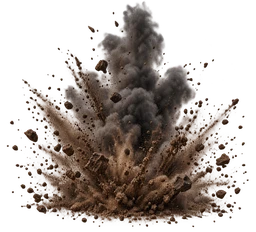
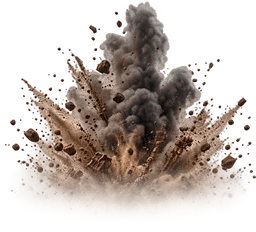
Release v1.11.67: ground and depth-sort impacts, unify city hits, show splash victims, fix motorized/naval/AT effects and commando muzzles

diff --git a/game/assets/orders.js b/game/assets/orders.js
@@ -63,7 +63,7 @@ function targetExplosions(u,p,d,now=performance.now()){const rocket=u.type===3,a
 async function attackCity(u,q,ai=false){if(!canAttackCity(u,q))return false;await finishMovingBeforeFire(u,ai);spendShot(u);const b=pxy(q.tile);let d=siegeDamage(u,q);beginAim(u,b,ai?25:180);await delay(ai?25:180);launchShot(u,b,performance.now(),ai?140:520);audioShot(u.type,u.f);await delay(u.f===0&&u.type===21?1000:TYPES[u.type].attackWindup??(u.type===25?1344:isFlashInfantry(u)?600:isCannonTank(u)?1000:(isBaekArtillery(u)||isTowedArtillery(u))?1200:ai?20:300));d=damageCity(q,d,cityDamageFloor(u));u.chargeUsed=true;targetExplosions(u,b,d,performance.now(),true);if(!q.hp)log(q.name+' 요새 무력화');if(!ai){selectUnit(u);updateHUD();save()}return true}
 function canCounterattack(defender,attacker){return defender.hp>0&&attacker.hp>0&&!defender.carriedBy&&atWar(defender.f,attacker.f)&&distance(defender.tile,attacker.tile)<=(TYPES[defender.type].branch==='artillery'?TYPES[defender.type].range:1)}
 function rollCounterattack(defender,attacker){return defender.type!==3&&attacker.type!==3||Math.random()<.4}
-async function attack(u,v,ai=false){if(!units.includes(u)||!units.includes(v)||!canAttack(u,v))return false;await finishMovingBeforeFire(u,ai);spendShot(u);const A=pxy(u.tile),B=pxy(v.tile),d=damage(u,v),splashShield=specialIncomingFactor(v);beginAim(u,B,ai?25:180);await delay(ai?25:180);launchShot(u,B,performance.now(),ai?140:520);audioShot(u.type,u.f);await delay(u.f===0&&u.type===21?1000:TYPES[u.type].attackWindup??(u.type===25?1344:isFlashInfantry(u)?600:isCannonTank(u)?1000:(isBaekArtillery(u)||isTowedArtillery(u))?1200:ai?20:300));const counterHp=v.hp;v.hp-=d;u.chargeUsed=true;targetExplosions(u,B,d,performance.now(),false,v);const garrison=cityAt(v.tile);if(garrison&&garrison.hp>0&&atWar(u.f,garrison.f)){const cityD=damageCity(garrison,siegeDamage(u,garrison),cityDamageFloor(u));fx.push({kind:'blast',x:B.x+44,y:B.y+32,start:performance.now(),duration:750,damage:cityD,layers:typeof impactLayers==='function'?impactLayers(u,null,true):undefined});if(!garrison.hp)log(garrison.name+' 요새 무력화')}u.xp+=d;const splash=u.type===3?.25:u.type===18?.2:TYPES[u.type].splash||0;let killed=v.hp<=0;if(typeof isWhiteNight==='function'&&isWhiteNight(u)){for(const a of whiteNightTargets(u,v).filter(a=>a.id!==v.id)){const hit=Math.round(d*.6);a.hp-=hit;u.xp+=hit;targetExplosions(u,pxy(a.tile),hit,performance.now(),false,a);if(a.hp<=0){killed=true;kill(a)}}}else if(splash)units.filter(a=>!a.carriedBy&&atWar(u.f,a.f)&&a.id!==v.id&&distance(v.tile,a.tile)<=1).slice().forEach(a=>{a.hp-=Math.round(d*splash/rannaTerrainProtection(v)/splashShield*rannaTerrainProtection(a)*specialIncomingFactor(a)*(cityAt(a.tile)?.f===a.f?.7:1));if(a.hp<=0){killed=true;kill(a)}});if(v.hp<=0){kill(v);log(factions[u.f].name+' · '+TYPES[v.type].name+' 격파')}else if(canCounterattack(v,u)&&rollCounterattack(v,u)){const retaliation=counterattackDamage(v,u,counterHp);food[v.f]-=attackFood(v);beginAim(v,A,110);launchShot(v,A,performance.now()+110,85);if(v.f===0&&v.type===21)await delay(1110);else if(TYPES[v.type].attackWindup)await delay(110+TYPES[v.type].attackWindup);else if(isFlashInfantry(v))await delay(710);else if(isCannonTank(v))await delay(1110);else if(TYPES[v.type].branch==='artillery')await delay(isTowedArtillery(v)||isBaekArtillery(v)?1310:650);u.hp-=retaliation;targetExplosions(v,A,retaliation,performance.now()+(TYPES[v.type].attackWindup?0:160),false,u);if(u.hp<=0)kill(u)}if(killed){killReward(u);if(!ai&&TYPES[u.type].branch==='armor')toast(u.moved?'격파 · 추가 공격 가능, 이동 완료':'격파 · 이동과 추가 공격 가능')}if(!ai){if(units.includes(u))selectUnit(u);updateHUD();save()}return true}
+async function attack(u,v,ai=false){if(!units.includes(u)||!units.includes(v)||!canAttack(u,v))return false;await finishMovingBeforeFire(u,ai);spendShot(u);const A=pxy(u.tile),B=pxy(v.tile),d=damage(u,v),splashShield=specialIncomingFactor(v);beginAim(u,B,ai?25:180);await delay(ai?25:180);launchShot(u,B,performance.now(),ai?140:520);audioShot(u.type,u.f);await delay(u.f===0&&u.type===21?1000:TYPES[u.type].attackWindup??(u.type===25?1344:isFlashInfantry(u)?600:isCannonTank(u)?1000:(isBaekArtillery(u)||isTowedArtillery(u))?1200:ai?20:300));const counterHp=v.hp;v.hp-=d;u.chargeUsed=true;const garrison=cityAt(v.tile);if(garrison){let shown=d;if(garrison.hp>0&&atWar(u.f,garrison.f)){shown=damageCity(garrison,siegeDamage(u,garrison),cityDamageFloor(u));if(!garrison.hp)log(garrison.name+' 요새 무력화')}targetExplosions(u,B,shown,performance.now(),true)}else targetExplosions(u,B,d,performance.now(),false,v);u.xp+=d;const splash=u.type===3?.25:u.type===18?.2:TYPES[u.type].splash||0;let killed=v.hp<=0;if(typeof isWhiteNight==='function'&&isWhiteNight(u)){for(const a of whiteNightTargets(u,v).filter(a=>a.id!==v.id)){const hit=Math.round(d*.6);a.hp-=hit;u.xp+=hit;targetExplosions(u,pxy(a.tile),hit,performance.now(),false,a);if(a.hp<=0){killed=true;kill(a)}}}else if(splash)units.filter(a=>!a.carriedBy&&atWar(u.f,a.f)&&a.id!==v.id&&distance(v.tile,a.tile)<=1).slice().forEach(a=>{const hit=Math.round(d*splash/rannaTerrainProtection(v)/splashShield*rannaTerrainProtection(a)*specialIncomingFactor(a)*(cityAt(a.tile)?.f===a.f?.7:1));a.hp-=hit;addAreaImpact(u,a,hit,performance.now());if(a.hp<=0){killed=true;kill(a)}});if(v.hp<=0){kill(v);log(factions[u.f].name+' · '+TYPES[v.type].name+' 격파')}else if(canCounterattack(v,u)&&rollCounterattack(v,u)){const retaliation=counterattackDamage(v,u,counterHp);food[v.f]-=attackFood(v);beginAim(v,A,110);launchShot(v,A,performance.now()+110,85);if(v.f===0&&v.type===21)await delay(1110);else if(TYPES[v.type].attackWindup)await delay(110+TYPES[v.type].attackWindup);else if(isFlashInfantry(v))await delay(710);else if(isCannonTank(v))await delay(1110);else if(TYPES[v.type].branch==='artillery')await delay(isTowedArtillery(v)||isBaekArtillery(v)?1310:650);u.hp-=retaliation;targetExplosions(v,A,retaliation,performance.now()+(TYPES[v.type].attackWindup?0:160),false,u);if(u.hp<=0)kill(u)}if(killed){killReward(u);if(!ai&&TYPES[u.type].branch==='armor')toast(u.moved?'격파 · 추가 공격 가능, 이동 완료':'격파 · 이동과 추가 공격 가능')}if(!ai){if(units.includes(u))selectUnit(u);updateHUD();save()}return true}
 const beforeLaunch=launchShot;
 launchShot=function(u,target,start=performance.now(),duration=520){const m=beforeLaunch(u,target,start,duration);if(u.type===10||u.type===12){const shot=fx.findLast?fx.findLast(e=>e.kind==='shot'&&e.start===start):fx.slice().reverse().find(e=>e.kind==='shot'&&e.start===start);if(shot){shot.duration=260;shot.bullet=true;for(let j=1;j<6;j++)fx.push({...shot,start:start+j*70});fireMotions.set(u.id,{start,duration:480,burst:true});if(sound)for(let j=1;j<6;j++)setTimeout(()=>audioShot(0),j*70)}}if(u.type===3){const shot=fx.find(e=>e.kind==='shot'&&e.start===start);if(shot)for(let j=1;j<6;j++)fx.push({...shot,start:start+j*95})}return m};
 function promote(u){return false}
@@ -78,7 +78,7 @@ function renameCities(){const baek=cities.filter(q=>q.origin===0),island=baek.fi
 const beforeSetup=setup;setup=function(){diplomacy=initialDiplomacy();beforeSetup();fx=[];moving=[];units.forEach(freshOrders);cities.forEach(q=>q.lastAttackedTurn=turn);renameCities();territoryDirty=true;save();updateHUD()};
 const beforeMigration=migrateArmy;migrateArmy=function(s){const previousHealth=new Map();if(s.balanceSchema!==BALANCE_SCHEMA){for(const u of s.units){const legacy=s.unitSchema!==UNIT_SCHEMA,base=legacy?([100,165,95,100,115,185,145,125][u.type]||OLD_ARMOR_HP[u.type]||TYPES[u.type].hp):(OLD_ARMOR_HP[u.type]||TYPES[u.type].hp),max=legacy?base+tech[u.f]*12+((u.level||1)-1)*20:(base+tech[u.f]*12)*(u.level||1);previousHealth.set(u.id,Math.max(0,Math.min(1,u.hp/max)))}}beforeMigration(s);if(s.balanceSchema!==BALANCE_SCHEMA)for(const u of units)if(ARMOR_POWER[u.type])u.hp=unitMaxHp(u)*(previousHealth.get(u.id)??1);diplomacy=Array.isArray(s.diplomacy)&&s.diplomacy.length===7?s.diplomacy:initialDiplomacy();for(const u of units){if(s.ruleSchema!==RULE_SCHEMA){u.attackReady=!u.attacked;u.moveAllowed=!u.moved&&!u.attacked&&u.ap>0;u.acted=!!u.moved||!!u.attacked;u.repairUsed=false}else{u.attackReady=!!u.attackReady;u.moveAllowed=!!u.moveAllowed&&!u.moved}syncOrders(u)}cities.forEach(q=>{if(!Number.isInteger(q.lastAttackedTurn))q.lastAttackedTurn=turn});renameCities();territoryDirty=true};
 function strikeTarget(q,i){const u=unitAt(i),city=cityAt(i);return(u&&atWar(q.f,u.f))||(city&&atWar(q.f,city.f)&&city.hp>0)}
-async function airStrike(q,type,i,ai=false){if(!canAirStrike(q,type,i))return false;const m=AIR_MISSIONS[type],a=pxy(q.tile),b=pxy(i);money[q.f]-=m.cost;oil[q.f]-=m.oil;airTarget=null;panelOpen=false;if(!ai){busy=true;refreshSelection();updateHUD()}addAirRaid({kind:'airraid',x:a.x,y:a.y,tx:b.x,ty:b.y,f:q.f,type,start:performance.now(),duration:2800});audioShot(4);await delay(1568);const unit=unitAt(i),city=cityAt(i);let shown=0;if(unit&&atWar(q.f,unit.f)){const base=escortProtected(unit)?0:Math.max(1,Math.round(Math.max(16,m.damage-Math.round(unitArmor(unit)*.35))*bombProtection(unit,city)*specialIncomingFactor(unit)));const d=Math.round(base*(city?.f===unit.f?.7:1));unit.hp-=d;shown=d;if(city&&atWar(q.f,city.f))fx.push({kind:'blast',x:b.x+42,y:b.y+30,start:performance.now(),duration:740,damage:d});if(unit.hp<=0)kill(unit)}if(city&&atWar(q.f,city.f)&&city.hp>0){const d=damageCity(city,cityAirStrikeDamage(type,city),1);shown=d}if((type==='bomber'||type==='strategic'))units.filter(u=>!u.carriedBy&&atWar(q.f,u.f)&&u.tile!==i&&distance(i,u.tile)<=1).slice().forEach(u=>{u.hp-=Math.round(19*bombProtection(u,cityAt(u.tile))*specialIncomingFactor(u)*(cityAt(u.tile)?.f===u.f?.7:1));if(u.hp<=0)kill(u)});targetExplosions({type:(type==='bomber'||type==='strategic')?3:4,strategic:true},b,shown);log(q.name+' · '+m.name);if(!ai){busy=false;refreshSelection();updateHUD();save();checkEnd()}return true}
+async function airStrike(q,type,i,ai=false){if(!canAirStrike(q,type,i))return false;const m=AIR_MISSIONS[type],a=pxy(q.tile),b=pxy(i);money[q.f]-=m.cost;oil[q.f]-=m.oil;airTarget=null;panelOpen=false;if(!ai){busy=true;refreshSelection();updateHUD()}addAirRaid({kind:'airraid',x:a.x,y:a.y,tx:b.x,ty:b.y,f:q.f,type,start:performance.now(),duration:2800});audioShot(4);await delay(1568);const unit=unitAt(i),city=cityAt(i);let shown=0;if(unit&&atWar(q.f,unit.f)){const base=escortProtected(unit)?0:Math.max(1,Math.round(Math.max(16,m.damage-Math.round(unitArmor(unit)*.35))*bombProtection(unit,city)*specialIncomingFactor(unit)));const d=Math.round(base*(city?.f===unit.f?.7:1));unit.hp-=d;shown=d;if(unit.hp<=0)kill(unit)}if(city&&atWar(q.f,city.f)&&city.hp>0){const d=damageCity(city,cityAirStrikeDamage(type,city),1);shown=d}if((type==='bomber'||type==='strategic'))units.filter(u=>!u.carriedBy&&atWar(q.f,u.f)&&u.tile!==i&&distance(i,u.tile)<=1).slice().forEach(u=>{const hit=Math.round(19*bombProtection(u,cityAt(u.tile))*specialIncomingFactor(u)*(cityAt(u.tile)?.f===u.f?.7:1));u.hp-=hit;addAreaImpact({type:3,strategic:true},u,hit,performance.now());if(u.hp<=0)kill(u)});targetExplosions({type:(type==='bomber'||type==='strategic')?3:4,strategic:true},b,shown);log(q.name+' · '+m.name);if(!ai){busy=false;refreshSelection();updateHUD();save();checkEnd()}return true}
 function drawCitySelection(q,p,now){if(selected?.kind!=='city'||selected.id!==q.id)return;ctx.save();hex(p,37);ctx.fillStyle='rgba(255,214,91,'+(.10+.10*(.5+.5*Math.sin(now*.004)))+')';ctx.fill();ctx.strokeStyle='#ffdc72';ctx.lineWidth=2.5;ctx.stroke();ctx.restore()}
 const beforeStart=showStart;showStart=function(){beforeStart();[...$('factions').children].forEach((b,i)=>{b.innerHTML='<img class="choiceFlag" src="flag-'+i+(i===3||i===6?'.svg':'.png')+'" alt=""><span>'+factions[i].name+'<small>'+factions[i].bonus+'</small></span>'})};
 $('diplomacy').onclick=showDiplomacy;$('turn').onclick=()=>endTurn();

diff --git a/game/assets/game.js b/game/assets/game.js
@@ -110,10 +110,11 @@ for(const b of missileBases){if(b.hp<=0)continue;const p=pxy(b.tile);if(Math.abs
 addAmbientScene(scene,now);
 if(typeof addSaprosDepthEffects==='function')addSaprosDepthEffects(scene,now);
 if(typeof addWreckDepthEffects==='function')addWreckDepthEffects(scene,now);
-const depthRank={scenery:0,city:1,defense:2,unit:3,wreck:3,whale:3,saprosImpact:3.5,ghost:4};
+if(typeof addImpactDepthEffects==='function')addImpactDepthEffects(scene,now);
+const depthRank={scenery:0,city:1,defense:2,unit:3,wreck:3,whale:3,impact:3.5,saprosImpact:3.5,ghost:4};
 scene.sort((a,b)=>a.p.y-b.p.y||a.p.x-b.p.x||depthRank[a.kind]-depthRank[b.kind]||a.id-b.id);
 paintDepthScene(scene);
-if(typeof skipAIAnimations==='function'&&skipAIAnimations())clearAIAnimations();fx=fx.filter(e=>now-e.start<e.duration);for(const e of fx){if(Number.isFinite(e.tx)&&Number.isFinite(e.x))e.tx=nearWorldPoint({x:e.tx,y:e.ty},{x:e.x,y:e.y}).x;const t=(now-e.start)/e.duration;if(t<0||(typeof isGroundRemains==='function'&&isGroundRemains(e))||e.kind==='whale'||e.kind==='saprosBlood'||e.kind==='saprosSparks')continue;if(typeof drawIllustratedEffect==='function'&&drawIllustratedEffect(e,t)){}else if(['saprosBlood','saprosSparks','saprosRemains'].includes(e.kind)){drawSaprosEffect(e,t)}else if(['defenseMissile','defenseFlame','defenseHit','samIntercept'].includes(e.kind)){drawDefenseEffect(e,t)}else if(e.kind==='infantryRemains'){drawInfantryRemains(e,t)}else if(['devilLaser','devilImpact'].includes(e.kind)){drawDevilRiderEffect(e,t)}else if(e.kind==='armoredCarHit'||e.kind==='armoredCarDamage'){drawArmoredCarEffect(e,t)}else if(['infantryMuzzle','infantrySmoke','infantryExplosion','infantrySpark','infantryDust'].includes(e.kind)){drawInfantryFireEffect(e,t)}else if(['baekArtilleryShell','baekArtilleryBlast'].includes(e.kind)){drawBaekArtilleryEffect(e,t)}else if(['baekRocket','baekGrenade','baekImpact'].includes(e.kind)){drawBaekProjectile(e,t)}else if(['navalMissile','navalSmoke','navalSink','whale'].includes(e.kind)){drawNavalEffect(e,t)}else if(e.kind==='missile'||e.kind==='nuclear'){drawStrategicEffect(e,t)}else if(e.kind==='doctrine'){ctx.save();ctx.globalAlpha=1-t;const color=e.f===1?'#fc7647':e.f===2?'#83efff':'#9bcdb5';for(let j=0;j<6;j++){const a=j*Math.PI/3+t*2;circle(e.x+Math.cos(a)*t*28,e.y+Math.sin(a)*t*24,5*(1-t),color)}ctx.restore()}else if(e.kind==='laser'){ctx.save();ctx.globalAlpha=1-t;line(e.x,e.y,e.tx,e.ty,'#66eaff88',8);line(e.x,e.y,e.tx,e.ty,'#d0fcff',2.5);ctx.restore()}else if(e.kind==='rally'){ctx.save();ctx.globalAlpha=1-t;ctx.strokeStyle='#f6d774';ctx.lineWidth=2;ctx.beginPath();ctx.arc(e.x,e.y,15+t*25,0,Math.PI*2);ctx.stroke();ctx.restore()}else if(e.kind==='airraid'){drawMissionAircraft(e,t)}else if(e.kind==='shot'){let x=e.x+(e.tx-e.x)*Math.min(1,t*1.7),y=e.y+(e.ty-e.y)*Math.min(1,t*1.7)-(TYPES[e.type]?.branch==='artillery'?Math.sin(Math.min(1,t*1.7)*Math.PI)*Math.max(100,Math.hypot(e.tx-e.x,e.ty-e.y)*.38):0);ctx.strokeStyle=e.laserShell?'#8cf5ff':'#f2d38a';ctx.lineWidth=e.strong?3:e.bullet||e.type===0?2:4;ctx.beginPath();ctx.moveTo(x-(e.tx-e.x)*.09,y-(e.ty-e.y)*.09);ctx.lineTo(x,y);ctx.stroke();circle(e.x,e.y,Math.max(0,6*(1-t*3)), '#ffd280')}else if(e.kind==='blast'){ctx.globalAlpha=1-t;circle(e.x,e.y,10+t*30,'#ff873977');circle(e.x,e.y,7+t*17,t<.3?'#fff0bc':'#ad5525');for(let j=0;j<9;j++){let a=j*2.4;circle(e.x+Math.cos(a)*t*48,e.y+Math.sin(a)*t*48,3*(1-t),'#eec476')}ctx.globalAlpha=1;ctx.fillStyle='#fff3c9';ctx.font='bold 17px Terha, sans-serif';ctx.textAlign='center';if(e.damage!==null&&e.damage!==undefined)ctx.fillText('−'+e.damage,e.x,e.y-25-t*30)}else{ctx.save();ctx.translate(e.x,e.y);ctx.rotate(.3);ctx.globalAlpha=1-t;rect(-21,-6,e.type===0?28:43,13,'#242e2c');rect(-12,-12,12,9,'#41443a');rect(8,-2,14,4,'#513a2d');ctx.restore()}}drawNavalOverlays(now);cities.filter(q=>visible(q.tile)).forEach(q=>drawCityForeground(q,pxy(q.tile)));moving=moving.filter(a=>now-a.start<a.duration);drawCountryNames();drawUnitNameOverlays(units.filter(u=>!u.carriedBy&&visible(u.tile)),now);ctx.restore()}
+if(typeof skipAIAnimations==='function'&&skipAIAnimations())clearAIAnimations();fx=fx.filter(e=>now-e.start<e.duration);for(const e of fx){if(Number.isFinite(e.tx)&&Number.isFinite(e.x))e.tx=nearWorldPoint({x:e.tx,y:e.ty},{x:e.x,y:e.y}).x;const t=(now-e.start)/e.duration;if(t<0||(typeof isDepthImpact==='function'&&isDepthImpact(e))||(typeof isGroundRemains==='function'&&isGroundRemains(e))||e.kind==='whale'||e.kind==='saprosBlood'||e.kind==='saprosSparks')continue;if(typeof drawIllustratedEffect==='function'&&drawIllustratedEffect(e,t)){}else if(['saprosBlood','saprosSparks','saprosRemains'].includes(e.kind)){drawSaprosEffect(e,t)}else if(['defenseMissile','defenseFlame','defenseHit','samIntercept'].includes(e.kind)){drawDefenseEffect(e,t)}else if(e.kind==='infantryRemains'){drawInfantryRemains(e,t)}else if(['devilLaser','devilImpact'].includes(e.kind)){drawDevilRiderEffect(e,t)}else if(e.kind==='armoredCarHit'||e.kind==='armoredCarDamage'){drawArmoredCarEffect(e,t)}else if(['infantryMuzzle','infantrySmoke','infantryExplosion','infantrySpark','infantryDust'].includes(e.kind)){drawInfantryFireEffect(e,t)}else if(['baekArtilleryShell','baekArtilleryBlast'].includes(e.kind)){drawBaekArtilleryEffect(e,t)}else if(['baekRocket','baekGrenade','baekImpact'].includes(e.kind)){drawBaekProjectile(e,t)}else if(['navalMissile','navalSmoke','navalSink','whale'].includes(e.kind)){drawNavalEffect(e,t)}else if(e.kind==='missile'||e.kind==='nuclear'){drawStrategicEffect(e,t)}else if(e.kind==='doctrine'){ctx.save();ctx.globalAlpha=1-t;const color=e.f===1?'#fc7647':e.f===2?'#83efff':'#9bcdb5';for(let j=0;j<6;j++){const a=j*Math.PI/3+t*2;circle(e.x+Math.cos(a)*t*28,e.y+Math.sin(a)*t*24,5*(1-t),color)}ctx.restore()}else if(e.kind==='laser'){ctx.save();ctx.globalAlpha=1-t;line(e.x,e.y,e.tx,e.ty,'#66eaff88',8);line(e.x,e.y,e.tx,e.ty,'#d0fcff',2.5);ctx.restore()}else if(e.kind==='rally'){ctx.save();ctx.globalAlpha=1-t;ctx.strokeStyle='#f6d774';ctx.lineWidth=2;ctx.beginPath();ctx.arc(e.x,e.y,15+t*25,0,Math.PI*2);ctx.stroke();ctx.restore()}else if(e.kind==='airraid'){drawMissionAircraft(e,t)}else if(e.kind==='shot'){let x=e.x+(e.tx-e.x)*Math.min(1,t*1.7),y=e.y+(e.ty-e.y)*Math.min(1,t*1.7)-(TYPES[e.type]?.branch==='artillery'?Math.sin(Math.min(1,t*1.7)*Math.PI)*Math.max(100,Math.hypot(e.tx-e.x,e.ty-e.y)*.38):0);ctx.strokeStyle=e.laserShell?'#8cf5ff':'#f2d38a';ctx.lineWidth=e.strong?3:e.bullet||e.type===0?2:4;ctx.beginPath();ctx.moveTo(x-(e.tx-e.x)*.09,y-(e.ty-e.y)*.09);ctx.lineTo(x,y);ctx.stroke();circle(e.x,e.y,Math.max(0,6*(1-t*3)), '#ffd280')}else if(e.kind==='blast'){ctx.globalAlpha=1-t;circle(e.x,e.y,10+t*30,'#ff873977');circle(e.x,e.y,7+t*17,t<.3?'#fff0bc':'#ad5525');for(let j=0;j<9;j++){let a=j*2.4;circle(e.x+Math.cos(a)*t*48,e.y+Math.sin(a)*t*48,3*(1-t),'#eec476')}ctx.globalAlpha=1;ctx.fillStyle='#fff3c9';ctx.font='bold 17px Terha, sans-serif';ctx.textAlign='center';if(e.damage!==null&&e.damage!==undefined)ctx.fillText('−'+e.damage,e.x,e.y-25-t*30)}else{ctx.save();ctx.translate(e.x,e.y);ctx.rotate(.3);ctx.globalAlpha=1-t;rect(-21,-6,e.type===0?28:43,13,'#242e2c');rect(-12,-12,12,9,'#41443a');rect(8,-2,14,4,'#513a2d');ctx.restore()}}drawNavalOverlays(now);cities.filter(q=>visible(q.tile)).forEach(q=>drawCityForeground(q,pxy(q.tile)));moving=moving.filter(a=>now-a.start<a.duration);drawCountryNames();drawUnitNameOverlays(units.filter(u=>!u.carriedBy&&visible(u.tile)),now);ctx.restore()}
 function draw(now){if(activeScenario)window.TerhaScenario.constrainCamera();const center=cam.x,half=screenW/2/cam.z;const first=Math.floor((center-half-WORLD_LEFT)/WORLD_WIDTH),last=Math.floor((center+half-WORLD_LEFT)/WORLD_WIDTH);try{
  for(let copy=first;copy<=last;copy++){cam.x=center-copy*WORLD_WIDTH;ctx.save();try{ctx.beginPath();ctx.rect(screenW/2+(WORLD_LEFT-cam.x)*cam.z,0,WORLD_WIDTH*cam.z,screenH);ctx.clip();drawWorld(now,true)}finally{ctx.restore()}}
  // Paint sprites after every background so hulls crossing the seam stay whole.

diff --git a/game/assets/illustrated-combat.js b/game/assets/illustrated-combat.js
@@ -7,31 +7,34 @@ moveOil=function(u){return u?.type===11?0:motorizedMoveOil(u)};
 attackOil=function(u){return u?.type===11?0:motorizedAttackOil(u)};
 function fleshTarget(u){return TYPES[u?.type]?.branch==='infantry'&&u.type!==11}
 const EFFECT_ROWS=[0,305,594,887,1237];
-const cityFlameArt=loadBaekArt('city-flame-soft.webp'),wreckSmokeArt=loadBaekArt('wreck-smoke.webp');
+const cityFlameArt=loadBaekArt('city-flame-soft.webp'),wreckSmokeArt=loadBaekArt('wreck-smoke.webp'),explosionFramesArt=loadBaekArt('explosion-soft.webp');
 const ILLUSTRATED_HITS=new Set(['illustratedImpact','blast','baekArtilleryBlast','baekImpact','infantryExplosion','infantrySpark','infantryDust','devilImpact','defenseHit','armoredCarHit']);
 const DEFAULT_EXPLOSION=['dustBurst'],DEFAULT_SPARKS=['sparks'],ARTILLERY_EXPLOSION=['explosion'];
 function impactLayers(attacker,target,city=false){
  const branch=TYPES[attacker?.type]?.branch,flesh=!city&&fleshTarget(target);
+ if(branch==='navy')return flesh?['explosion','blood']:['explosion'];
  if(branch==='artillery'&&!attacker.strategic)return flesh?['explosion','blood']:['explosion'];
  if(branch==='armor')return flesh?['infantrySmokeHit','blood']:['armorSmoke'];
  if(attacker?.type===8)return flesh?['grenadeDust','blood']:['grenadeDust'];
- if(attacker?.type===9||attacker?.strategic)return flesh?['dustBurst','blood']:['dustBurst'];
- if(city)return ['dustBurst'];
- return fleshTarget(attacker)?(flesh?['blood']:['sparks']):(flesh?['dustBurst','blood']:['dustBurst']);
+ if(attacker?.type===9)return flesh?['dustBurst','blood']:['armorSmoke'];
+ if(attacker?.strategic)return flesh?['dustBurst','blood']:['dustBurst'];
+ if(city)return branch==='infantry'?['sparks']:['dustBurst'];
+ return branch==='infantry'?(flesh?['blood']:['sparks']):(flesh?['dustBurst','blood']:['dustBurst']);
 }
 function softEffectTexture(art){return art.idleReady?art.idle:null}
 function effectFrame(row,t,x,y,size){
- if(row===3){const fire=softEffectTexture(cityFlameArt);if(fire)nativeMapDrawImage(fire,x-size/2,y-size*.8,size,size);return}
+ if(row===3){const fire=softEffectTexture(cityFlameArt);if(fire)nativeMapDrawImage(fire,x-size/2,y+12-size,size,size);return}
+ if(row===2){if(explosionFramesArt.idleReady){const image=explosionFramesArt.idle,w=image.naturalWidth/4;nativeMapDrawImage(image,Math.min(3,Math.max(0,Math.floor(t*4)))*w,0,w,image.naturalHeight,x-size/2,y+12-size,size,size)}return}
  if(!battlefieldEffects.idleReady)return;
  const source=battlefieldEffects.idle,w=source.naturalWidth/4,frame=Math.min(3,Math.max(0,Math.floor(t*4)));
  const y0=EFFECT_ROWS[row]*source.naturalHeight/1237,h=(EFFECT_ROWS[row+1]-EFFECT_ROWS[row])*source.naturalHeight/1237;
- nativeMapDrawImage(source,frame*w,y0,w,h,x-size/2,y-size*.8,size,size);
+ nativeMapDrawImage(source,frame*w,y0,w,h,x-size/2,y+12-size,size,size);
 }
 function drawImpactSmoke(x,y,size,t,density=1){
  const smoke=softEffectTexture(wreckSmokeArt);if(!smoke)return;
  ctx.save();ctx.globalAlpha*=density*Math.min(1,.3+t*5)*Math.min(1,(1-t)*4);
- const width=size*(.75+t*.3),height=size*(.85+t*.45);
- nativeMapDrawImage(smoke,x-width/2+Math.sin(t*2.1)*3,y-height*.84-t*8,width,height);ctx.restore();
+ const width=size,height=size*1.2;
+ nativeMapDrawImage(smoke,x-width/2,y+12-height,width,height);ctx.restore();
 }
 function paintImpact(e,t){
  const layers=e.layers||(e.kind==='baekArtilleryBlast'?ARTILLERY_EXPLOSION:e.kind==='infantrySpark'?DEFAULT_SPARKS:DEFAULT_EXPLOSION);
@@ -48,13 +51,26 @@ function drawIllustratedEffect(e,t){
  if(Math.abs(e.x-cam.x)>screenW/2/cam.z+160||Math.abs(e.y-cam.y)>screenH/2/cam.z+180)return true;
  paintImpact(e,t);return true;
 }
+function impactCityAt(p){const tile=worldTileAt(p.x,p.y);return tile>=0?cityAt(tile):null}
+function addAreaImpact(u,target,d,now=performance.now()){
+ if(skipAIAnimations()||d<=0)return;
+ const q=cityAt(target.tile),p=pxy(target.tile);
+ fx.push({kind:'blast',x:p.x,y:p.y,damage:d,layers:impactLayers(u,target,!!q),targetId:target.id,targetTile:target.tile,cityImpact:!!q,cityId:q?.id,combatImpact:combatImpactProfile(u),splash:true,start:now,duration:650});
+}
 const illustratedTargetExplosions=targetExplosions;
 targetExplosions=function(u,p,d,now=performance.now(),city=false,target=null){
- const before=fx.length,result=illustratedTargetExplosions(u,p,d,now,city,target);
- // Preserve special melee timing/art, numeric labels and sounds.
- if(isSapros(u)||isWhiteNight(u)||skipAIAnimations())return result;
- const layers=impactLayers(u,target,city),hitKinds=['blast','baekArtilleryBlast','baekImpact','infantryExplosion','infantrySpark','infantryDust','devilImpact','armoredCarHit'];
- for(const e of fx.slice(before))if(hitKinds.includes(e.kind)){e.layers=layers;e.combatImpact=combatImpactProfile(u)}
+ const q=impactCityAt(p),cityImpact=!!q;
+ const before=fx.length,result=illustratedTargetExplosions(u,p,d,now,city||cityImpact,target);
+ if(skipAIAnimations())return result;
+ if(cityImpact){
+  const added=fx.slice(before),first=added.find(e=>ILLUSTRATED_HITS.has(e.kind));
+  fx=fx.slice(0,before).concat(added.filter(e=>!ILLUSTRATED_HITS.has(e.kind)&&!['armoredCarDamage','saprosBlood','saprosSparks','navalSmoke'].includes(e.kind)));
+  fx.push({kind:'blast',x:p.x,y:p.y,damage:d,layers:impactLayers(u,null,true),cityImpact:true,cityId:q.id,targetTile:q.tile,combatImpact:combatImpactProfile(u),start:first?.start??now,duration:750});
+  return result;
+ }
+ if(isSapros(u)||isWhiteNight(u))return result;
+ const layers=impactLayers(u,target,false);
+ for(const e of fx.slice(before))if(ILLUSTRATED_HITS.has(e.kind)){e.layers=layers;e.combatImpact=combatImpactProfile(u);e.targetId=target?.id;e.targetTile=target?.tile}
  return result;
 };
 const illustratedLaunch=launchShot;
@@ -64,6 +80,7 @@ launchShot=function(u,target,start=performance.now(),duration=520){
  // Only the armored-car burst needs target classification before impact.
  const victim=u.type===12?units.find(v=>!v.carriedBy&&v.id!==u.id&&Math.hypot(pxy(v.tile).x-target.x,pxy(v.tile).y-target.y)<2):null;
  const result=illustratedLaunch(u,target,start,duration);
+ if(impactCityAt(target))fx=fx.slice(0,before).concat(fx.slice(before).filter(e=>!ILLUSTRATED_HITS.has(e.kind)));
  if(u.type===12)for(const e of fx.slice(before))if(e.kind==='armoredCarHit')e.layers=impactLayers(u,victim,!victim);
  if(u.type===18){
   fx=fx.slice(0,before).concat(fx.slice(before).filter(e=>!['shot','baekArtilleryShell','baekRocket','baekGrenade','laser','doctrine'].includes(e.kind)));
@@ -128,6 +145,17 @@ function addWreckDepthEffects(scene,now){
   scene.push({kind:'wreck',id:i,p:{x:e.x,y:e.y},paint:()=>drawIllustratedWreck(e,t,now)});
  }
 }
+function isDepthImpact(e){return ILLUSTRATED_HITS.has(e.kind)||e.kind==='navalSmoke'||e.kind==='nuclear'}
+function addImpactDepthEffects(scene,now){
+ for(let i=0;i<fx.length;i++){
+  const e=fx[i];if(!isDepthImpact(e))continue;
+  const t=(now-e.start)/e.duration;if(t<0||t>=1)continue;
+  const margin=e.kind==='nuclear'?460:180;
+  if(Math.abs(e.x-cam.x)>screenW/2/cam.z+margin||Math.abs(e.y-cam.y)>screenH/2/cam.z+margin)continue;
+  const tile=e.targetTile??worldTileAt(e.x,e.y),p=tile>=0?pxy(tile):{x:e.x,y:e.y};
+  scene.push({kind:'impact',id:i,p,paint:()=>drawIllustratedEffect(e,t)});
+ }
+}
 const illustratedSetup=setup;
 setup=function(...args){
  const result=illustratedSetup(...args);
@@ -141,4 +169,4 @@ setup=function(...args){
  }
  return result;
 };
-Object.assign(window.Terha,{moveOil,attackOil,impactLayers,drawIllustratedEffect,drawIllustratedWreck,addWreckDepthEffects,drawCityFire,targetExplosions,launchShot,kill,setup});
+Object.assign(window.Terha,{moveOil,attackOil,impactLayers,drawIllustratedEffect,drawIllustratedWreck,addWreckDepthEffects,drawCityFire,isDepthImpact,addImpactDepthEffects,addAreaImpact,targetExplosions,launchShot,kill,setup});

diff --git a/game/assets/saves.js b/game/assets/saves.js
@@ -3,7 +3,7 @@ let activeScenario=null;
 const SAVE_SLOTS=10;
 function saveKey(slot=0){if(!activeScenario)return slot===0?'terha-v1':'terha-slot-'+slot;const prefix=activeScenario.id==='iron-crown-m01'?'terha-campaign-iron-crown':'terha-campaign-'+activeScenario.id;return slot===0?prefix+'-v2':prefix+'-slot-'+slot}
 function readSave(slot=0){try{const s=JSON.parse(localStorage.getItem(saveKey(slot)));return s&&Array.isArray(s.units)&&Array.isArray(s.cities)&&(activeScenario?window.TerhaScenario?.valid(s):!s.scenario&&[168,181].includes(s.cities.length))?s:null}catch(e){return null}}
-function snapshot(){return{appVersion:'1.11.66',...(activeScenario?window.TerhaScenario.metadata():{}),danteExpansionSeeded,unitBalance42Schema:UNIT_BALANCE_42_SCHEMA,defenseSchema:2,campaignPatchSchema:1,aiTransportGrantTurn,shorelineSchema:SHORELINE_SCHEMA,cityPlacementSchema:CITY_PLACEMENT_SCHEMA,cityRosterSchema:CITY_ROSTER_SCHEMA,tierBalanceSchema:TIER_BALANCE_SCHEMA,navalSchema:1,missileBases,navalUid,food,foodTurn,industrySchema:INDUSTRY_SCHEMA,oil,strategicResearch,defeatedNotices:[...defeatedNotices],balanceSchema:BALANCE_SCHEMA,ruleSchema:RULE_SCHEMA,diplomacy,unitSchema:UNIT_SCHEMA,savedAt:Date.now(),units,cities,money,tech,turn,player,difficulty,uid,owners:tiles.map(t=>t.owner),cam,activeSlot}}
+function snapshot(){return{appVersion:'1.11.67',...(activeScenario?window.TerhaScenario.metadata():{}),danteExpansionSeeded,unitBalance42Schema:UNIT_BALANCE_42_SCHEMA,defenseSchema:2,campaignPatchSchema:1,aiTransportGrantTurn,shorelineSchema:SHORELINE_SCHEMA,cityPlacementSchema:CITY_PLACEMENT_SCHEMA,cityRosterSchema:CITY_ROSTER_SCHEMA,tierBalanceSchema:TIER_BALANCE_SCHEMA,navalSchema:1,missileBases,navalUid,food,foodTurn,industrySchema:INDUSTRY_SCHEMA,oil,strategicResearch,defeatedNotices:[...defeatedNotices],balanceSchema:BALANCE_SCHEMA,ruleSchema:RULE_SCHEMA,diplomacy,unitSchema:UNIT_SCHEMA,savedAt:Date.now(),units,cities,money,tech,turn,player,difficulty,uid,owners:tiles.map(t=>t.owner),cam,activeSlot}}
 function save(slot=0){if(!Number.isInteger(slot)||slot<0||slot>SAVE_SLOTS)return false;try{if(slot>0)activeSlot=slot;const s=snapshot();localStorage.setItem(saveKey(slot),JSON.stringify(s));if(activeScenario)window.TerhaScenario.onSaved(s);return true}catch(e){toast('저장 공간이 부족하거나 저장할 수 없습니다');return false}}
 function load(slot=0){const s=readSave(slot);if(activeScenario)return !!s&&window.TerhaScenario.restore(s,slot);if(!s||!Array.isArray(s.owners)||![W*H,tiles.length].includes(s.owners.length))return false;try{({units,cities,money,tech,turn,player,difficulty,uid,cam}=s);activeSlot=slot||s.activeSlot||0;tiles.forEach((t,i)=>{t.owner=s.owners[i]??-1;t.city=-1});cities.forEach(q=>tiles[q.tile].city=q.id);migrateArmy(s);selected=null;panelOpen=false;airTarget=null;aimMotions.clear();fireMotions.clear();fx=[];moving=[];reach.clear();started=true;busy=false;menuMode=false;refreshSelection();$('modal').style.display='none';updateHUD();if(slot>0)save();toast(slot>0?'슬롯 '+slot+' 작전을 불러왔습니다':'자동 저장된 작전을 불러왔습니다');return true}catch(e){return false}}
 function migrateLegacySaves(){try{if(localStorage.getItem('terha-slots-migrated'))return;const s=readSave();if(s&&!readSave(1)){s.savedAt=s.savedAt||Date.now();localStorage.setItem(saveKey(1),JSON.stringify(s))}localStorage.setItem('terha-slots-migrated','1')}catch(e){}}

diff --git a/game/assets/combat-animation.js b/game/assets/combat-animation.js
@@ -44,9 +44,9 @@ function paintProjectile(kind,x,y,width,height,angle=0,alpha=1){
 function drawMuzzleIllustration(x,y,size,angle=0,cyan=false){paintProjectile(cyan?'cyanMuzzle':3,x+Math.cos(angle)*size*.8,y+Math.sin(angle)*size*.8,size*2.4,size*1.1,angle)}
 function drawDirtImpact(x,y,t,size){
  const image=softEffectTexture(dirtImpactArt);if(!image)return;
- const p=Math.min(1,t*2.5),spread=1-Math.pow(1-p,3),w=size*(.35+.85*spread),h=size*(.4+.6*spread);
+ const w=size*1.2,h=size;
  ctx.save();ctx.globalAlpha*=Math.min(1,(1-t)*3);
- nativeMapDrawImage(image,x-w/2,y-h*.76-t*size*.08,w,h);ctx.restore();
+ nativeMapDrawImage(image,x-w/2,y+12-h,w,h);ctx.restore();
 }
 function drawArmorImpact(e,t,flesh){
  if(flesh){
@@ -87,7 +87,7 @@ drawIllustratedEffect=function(e,t){
  if(k==='infantryMuzzle'||k==='defenseFlame'){drawMuzzleIllustration(e.x,e.y,k==='defenseFlame'?26:9,e.angle||0);return true}
  if(k==='infantrySmoke'||k==='navalSmoke'){drawImpactSmoke(e.x,e.y,k==='navalSmoke'?66:30,t,.7);return true}
  if(k==='nuclear'){
-  if(nuclearCloudArt.idleReady){const rise=1-Math.pow(1-t,3),w=240+rise*260,h=120+rise*320;ctx.save();ctx.globalAlpha=Math.min(1,(1-t)*4);nativeMapDrawImage(nuclearCloudArt.idle,e.x-w/2,e.y-h*.8,w,h);ctx.restore()}
+  if(nuclearCloudArt.idleReady){const w=500,h=440;ctx.save();ctx.globalAlpha=Math.min(1,(1-t)*4);nativeMapDrawImage(nuclearCloudArt.idle,e.x-w/2,e.y+12-h,w,h);ctx.restore()}
   return true;
  }
  if(k==='rally'||k==='doctrine'){effectFrame(0,t,e.x,e.y,40);return true}

diff --git a/game/assets/app-shell.js b/game/assets/app-shell.js
@@ -1,5 +1,5 @@
 'use strict';
-const APP_VERSION='1.11.66',APP_SETTINGS_KEY='terha-settings',APP_RECORDS_KEY='terha-conquests';
+const APP_VERSION='1.11.67',APP_SETTINGS_KEY='terha-settings',APP_RECORDS_KEY='terha-conquests';
 function readAppJSON(key,fallback){try{return JSON.parse(localStorage.getItem(key))??fallback}catch{return fallback}}
 const savedAppSettings=readAppJSON(APP_SETTINGS_KEY,{});
 const appSettings={music:Number.isFinite(savedAppSettings.music)?Math.min(1,Math.max(0,savedAppSettings.music)):.65,effects:Number.isFinite(savedAppSettings.effects)?Math.min(1,Math.max(0,savedAppSettings.effects)):1,language:savedAppSettings.language==='en'?'en':'ko'};

diff --git a/game/assets/v11082-special-fuel.js b/game/assets/v11082-special-fuel.js
@@ -11,7 +11,7 @@ UNIT_STORIES[NAKWOL_COMMANDO]='낙월 특공대의 붉은 베레모는 낙월민
 const nakwolCommandoArt=loadBaekArt('nakwol-commando-idle.webp','nakwol-commando-fire.webp');
 NAKWOL_INFANTRY_PROFILES[NAKWOL_COMMANDO]={
  art:nakwolCommandoArt,baseFacing:-1,
- muzzles:baekMuzzles([[40,405],[512,367],[972,355],[215,689],[697,695]]),
+ muzzles:[[2,54],[144,54],[289,55],[11,169],[180,171]].map(([x,y])=>({x:(x/480-.5)*64,y:14-48+y/360*48})),
  burst:true,burstShots:4
 };
 // The special is available only at the Nakwol capital, with the normal

diff --git a/build.py b/build.py
@@ -2,7 +2,7 @@
 """Repackage the retained Android shell with current game assets and original signing key."""
 import pathlib,zipfile,struct,subprocess,os,urllib.request
 ROOT=pathlib.Path(__file__).resolve().parent;os.chdir(ROOT)
-VERSION='1.11.66';CODE=211
+VERSION='1.11.67';CODE=212
 subprocess.run(['python3','tools/prepare_operation_music.py'],check=True)
 T=ROOT/'tools';T.mkdir(exist_ok=True)
 for name,url in [('ecj.jar','https://repo.maven.apache.org/maven2/org/eclipse/jdt/ecj/3.33.0/ecj-3.33.0.jar'),('apksig.jar','https://repo.maven.apache.org/maven2/com/android/tools/build/apksig/2.3.0/apksig-2.3.0.jar')]:
